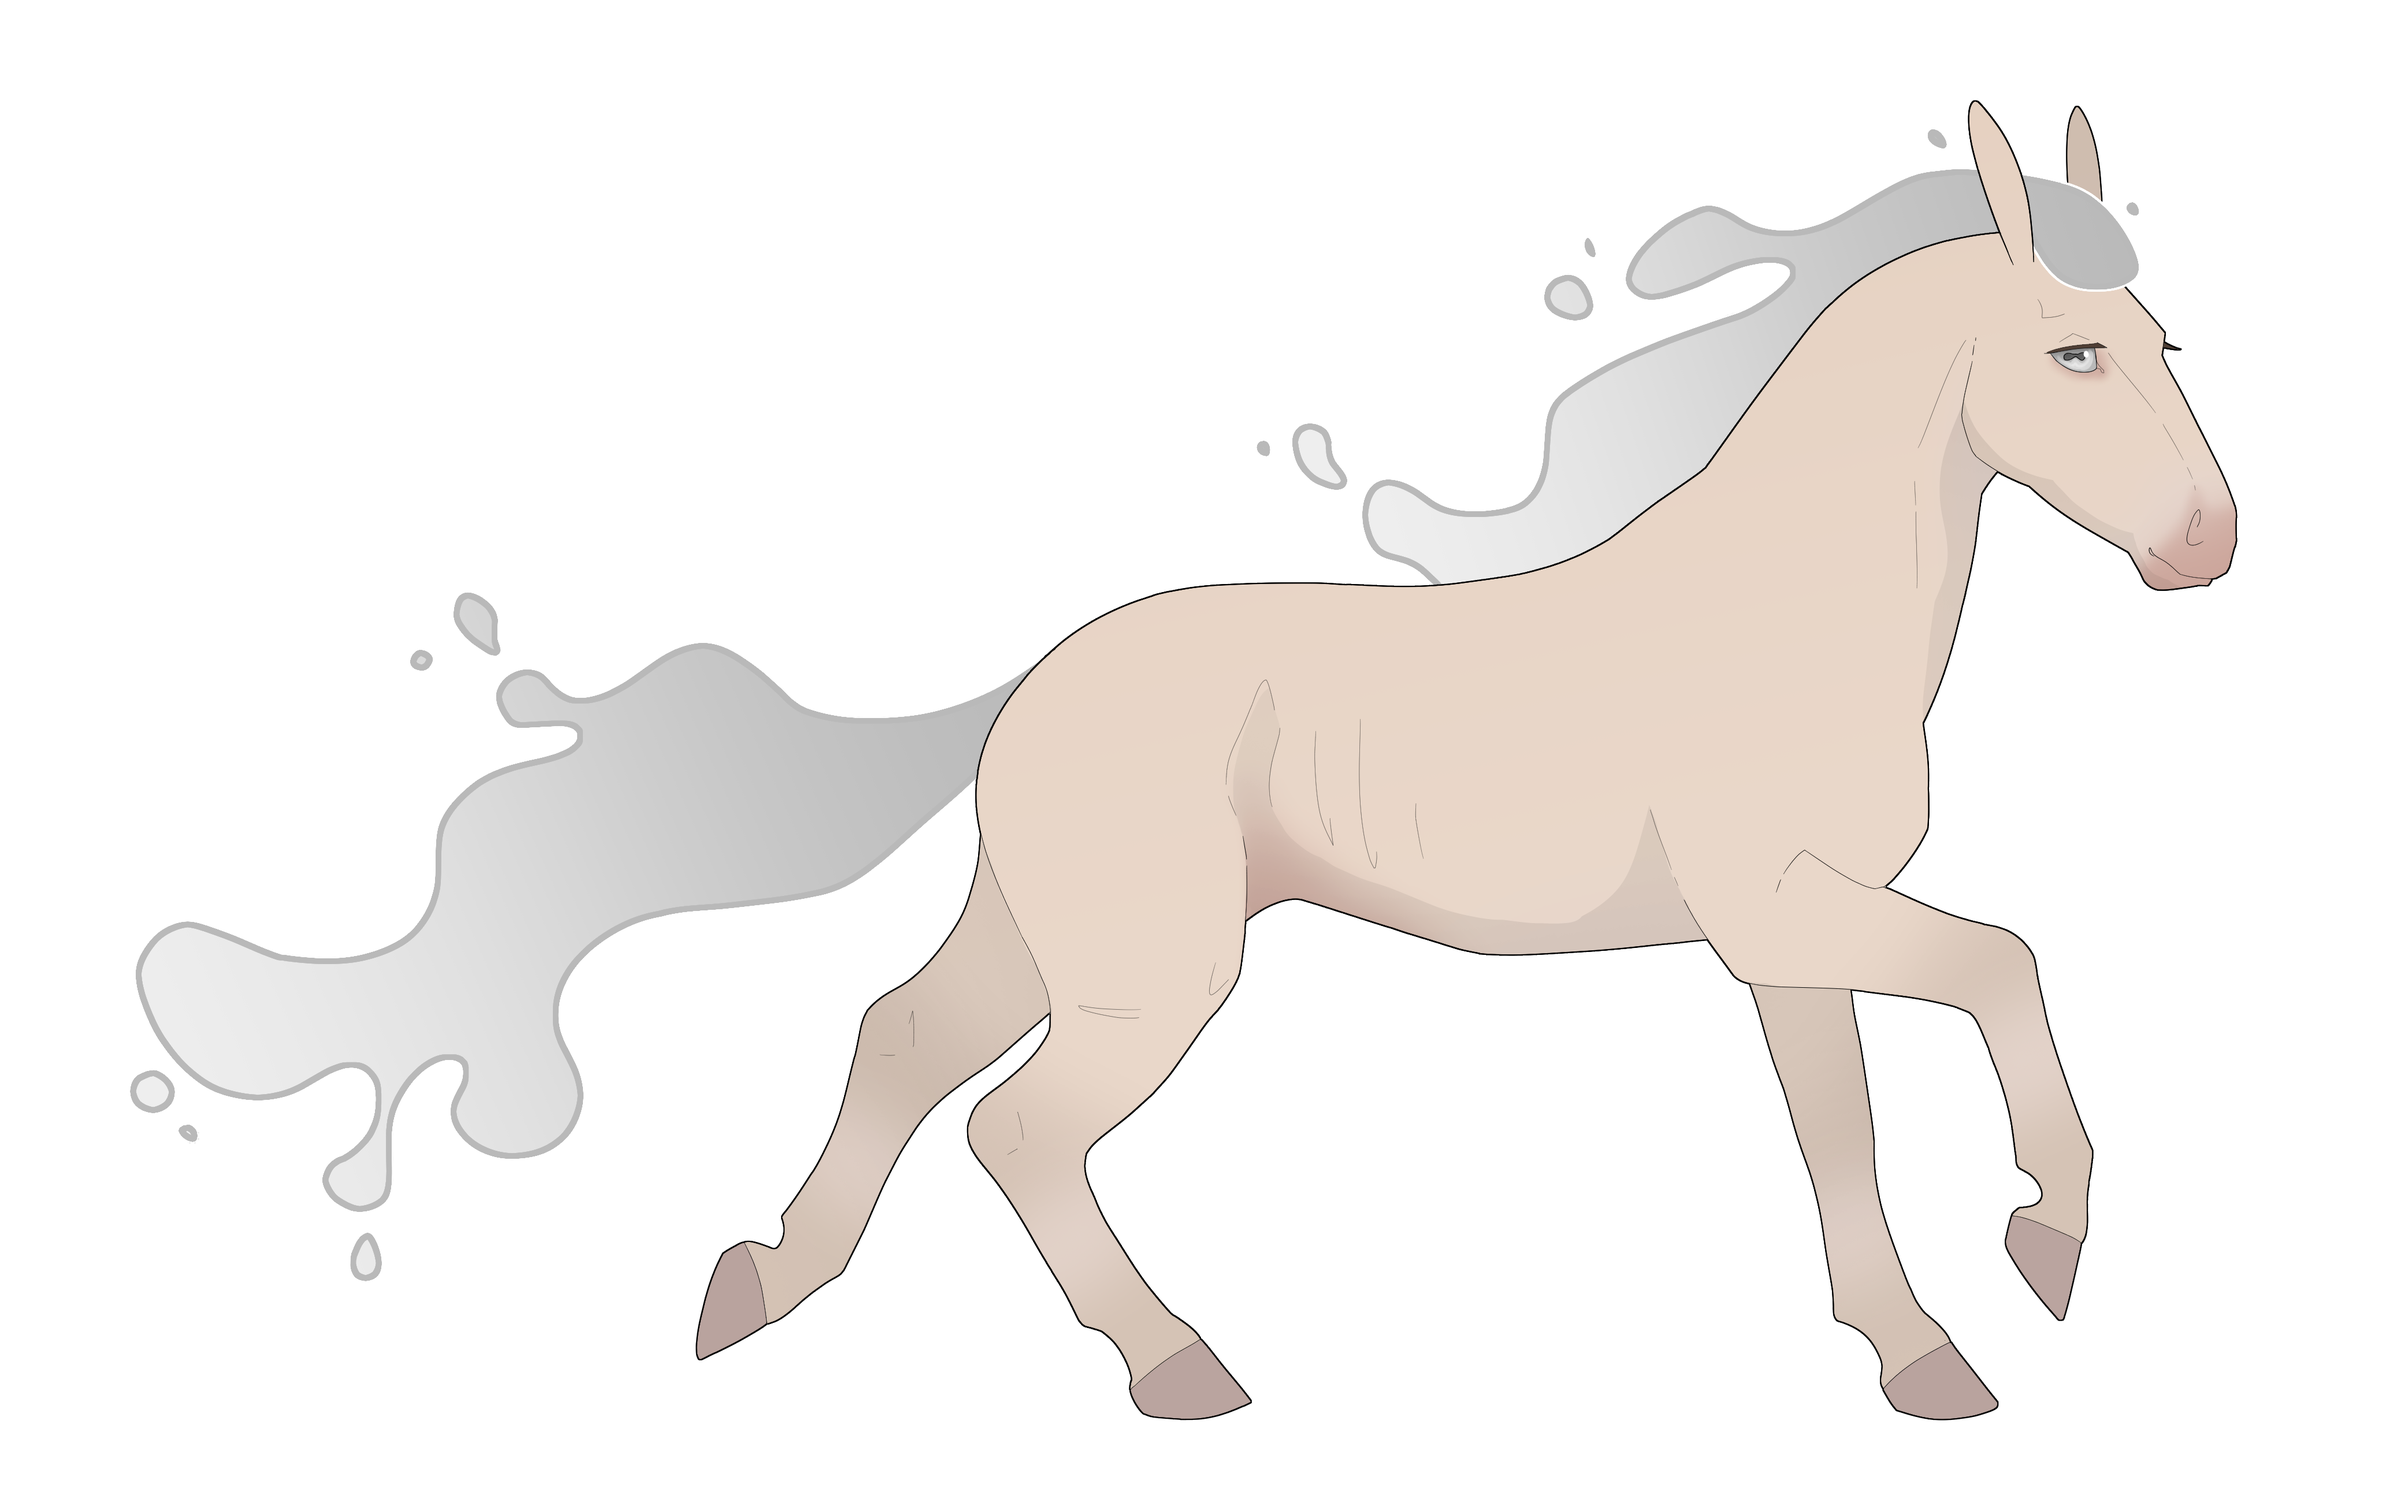
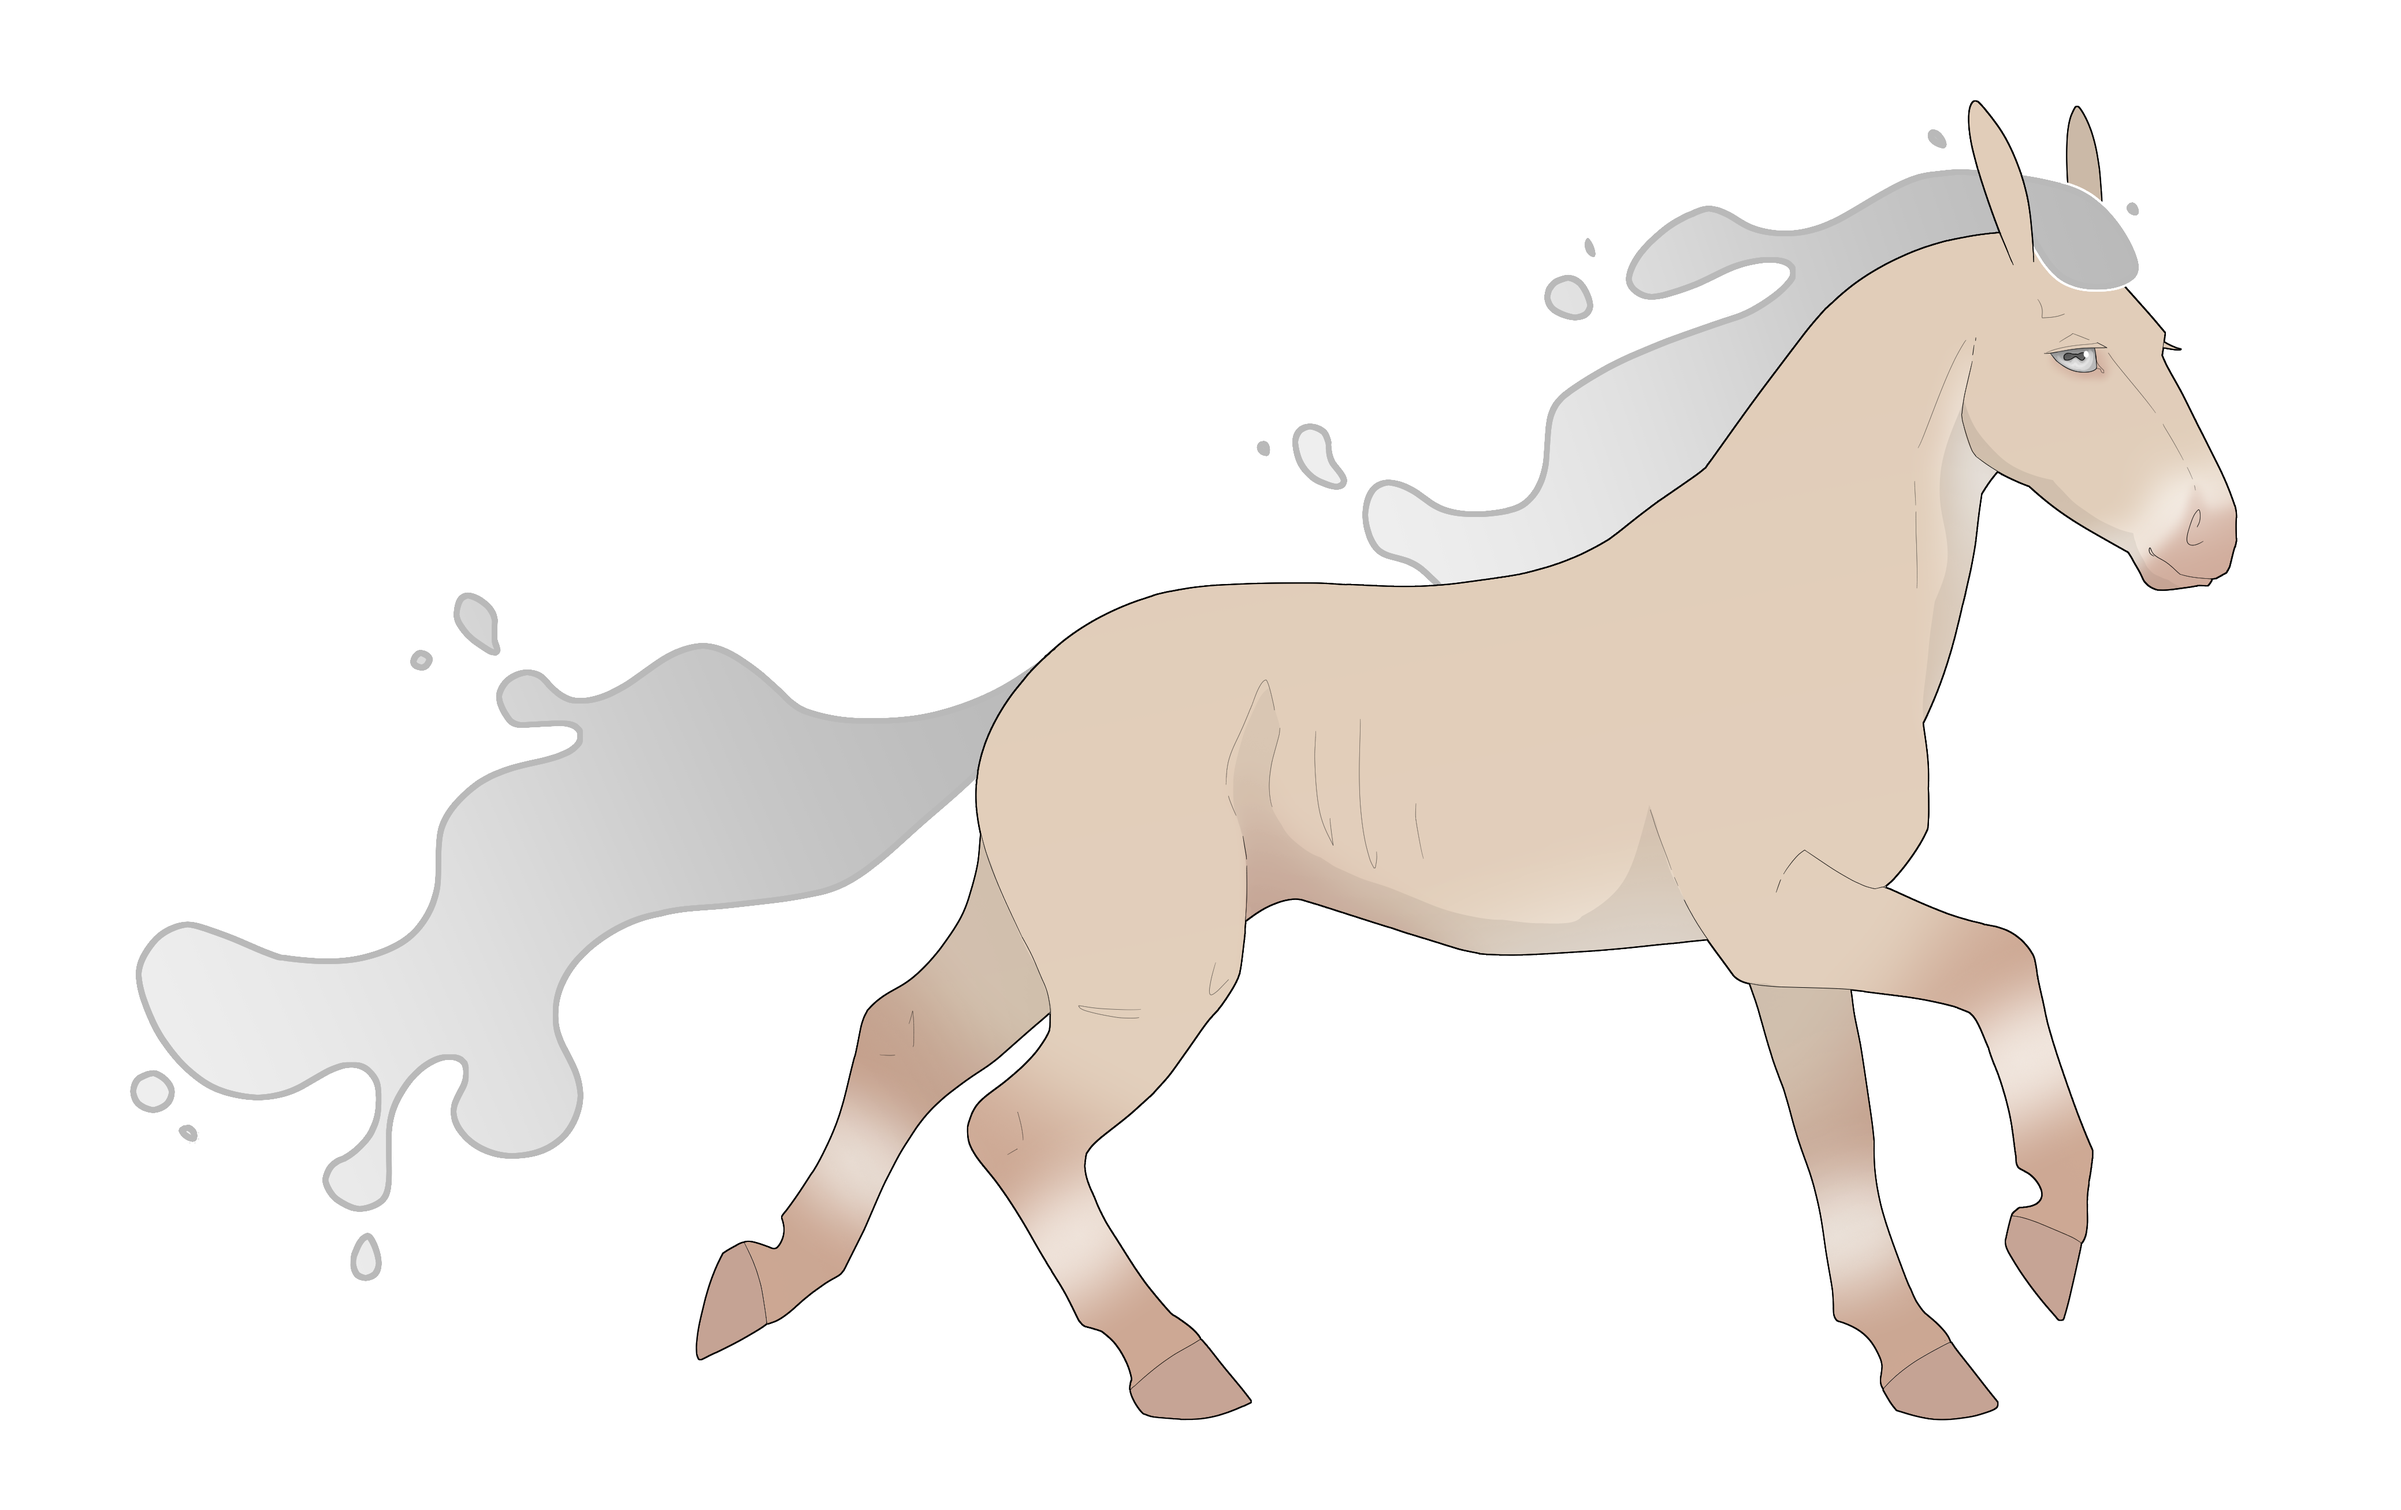
feat: added cream and butter examples

diff --git a/resources/views/genetics.blade.php b/resources/views/genetics.blade.php
@@ -5,31 +5,33 @@
 	{{-- Index --}}
 	<section id="index" class="select-none">
 		<ul>
+			{{-- <li><a href="{{ url('#rarities') }}"><span class="text-green-500">ᛚᛖ</span> <span class="capitalize font-semibold">rarities</span></a></li> --}}
 			<li><a href="{{ url('#gwelw') }}"><span class="text-green-500">ᛚᛖ</span> <span class="capitalize font-semibold">gwelw</span></a></li>
 			<li><a href="{{ url('#bases') }}"><span class="text-green-500">ᛚᛖ</span> <span class="capitalize font-semibold">bases</span></a></li>
 			<li>
 				<ul class="[&>*]:ml-7 [&>*]:capitalize">
 					<li><a href="{{ url('#stori') }}"><span class="text-green-500">⨁</span> stori</a></li>
-					<li><a href="{{ url('#bae') }}"><span class="text-green-500">⨁</span> bae</a></li>
 					<li><a href="{{ url('#siocled') }}"><span class="text-green-500">⨁</span> siocled</a></li>
+					<li><a href="{{ url('#bae') }}"><span class="text-green-500">⨁</span> bae</a></li>
 					<li><a href="{{ url('#llaid') }}"><span class="text-green-500">⨁</span> llaid</a></li>
 					<li><a href="{{ url('#du') }}"><span class="text-green-500">⨁</span> du</a></li>
 				</ul>
 			</li>
-			<li><a href="{{ url('#cream') }}"><span class="text-green-500">ᛚᛖ</span> <span class="font-semibold">Cream</span></a></li>
+			<li><a href="{{ url('#cream') }}"><span class="text-green-500">ᛚᛖ</span> <span class="capitalize font-semibold">cream</span></a></li>
+			<li><a href="{{ url('#butter') }}"><span class="text-green-500">ᛚᛖ</span> <span class="capitalize font-semibold">butter</span></a></li>
 		</ul>
 	</section>
 
-	{{-- Info --}}
-	<section id="info">
-		<p class="italic">NOTE: All examples are shown with <a href="#gwelw" class="underline">gwelw</a> unless otherwise specified.</p>
-	</section>
+	{{-- <section id="rarities">
+		<h1>Rarities</h1>
+		<p>Fancy graph generated from logbook stats to be added~ 📊</p>
+	</section> --}}
 
 	{{-- Gwelw --}}
 	<section id="gwelw">
 		<h1>Gwelw</h1>
 		<p>Similiar to pangare, gwelw lightens the muzzle, throatlatch, girth area and canons of the horse, up to the entire underline. Dom/rec does not affect appearance.</p>
-		<p class="italic">INFO: Gwelw means 'pale' in Welsh!</p>
+		<p class="italic">NOTE: All examples are shown with <a href="#gwelw" class="underline">gwelw</a> unless otherwise specified</p>
 		<div class="grid lg:grid-cols-2 gap-4 mt-4">
 			<x-genetics-base-example name="gwelw min" genes="GG/nG" />
 			<x-genetics-base-example name="gwelw max" genes="GG/nG" />

diff --git a/resources/views/components/nav.blade.php b/resources/views/components/nav.blade.php
@@ -4,7 +4,7 @@
 			<div class="font-bold text-green-500">Llwtrahors</div>
 			<ul class="flex flex-wrap gap-x-5 [&>*]:min-w-fit">
 				<li class="accent-shadow"><a href="{{ url('/') }}">🌿 Getting Started</a></li>
-				<li class="accent-shadow"><a href="{{ url('/') }}">📚 Lore</a></li>
+				<li class="accent-shadow"><a href="{{ url('/') }}">💎 Items</a></li>
 				<li class="accent-shadow"><a href="{{ url('/genetics') }}">🧬 Genetics</a></li>
 				<li class="accent-shadow"><a href="{{ url('/') }}">📜 Logbook</a></li>
 				<li class="accent-shadow"><a href="{{ url('/') }}">🏅 Leaderboards</a></li>

diff --git a/routes/web.php b/routes/web.php
@@ -20,6 +20,10 @@ Route::get('/getting-started', function () {
     return view('getting-started');
 });
 
+Route::get('/items', function () {
+    return view('items');
+});
+
 Route::get('/genetics', function () {
     return view('genetics');
 });
